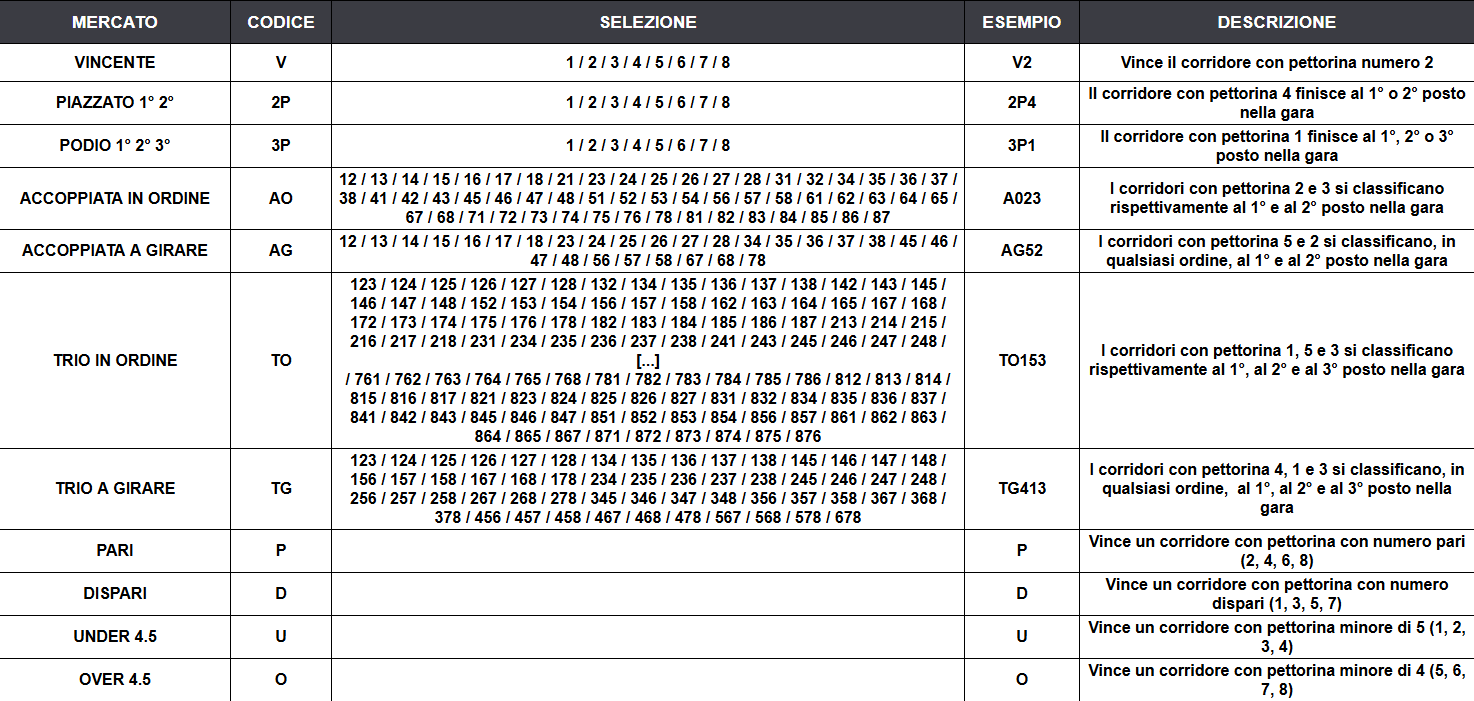
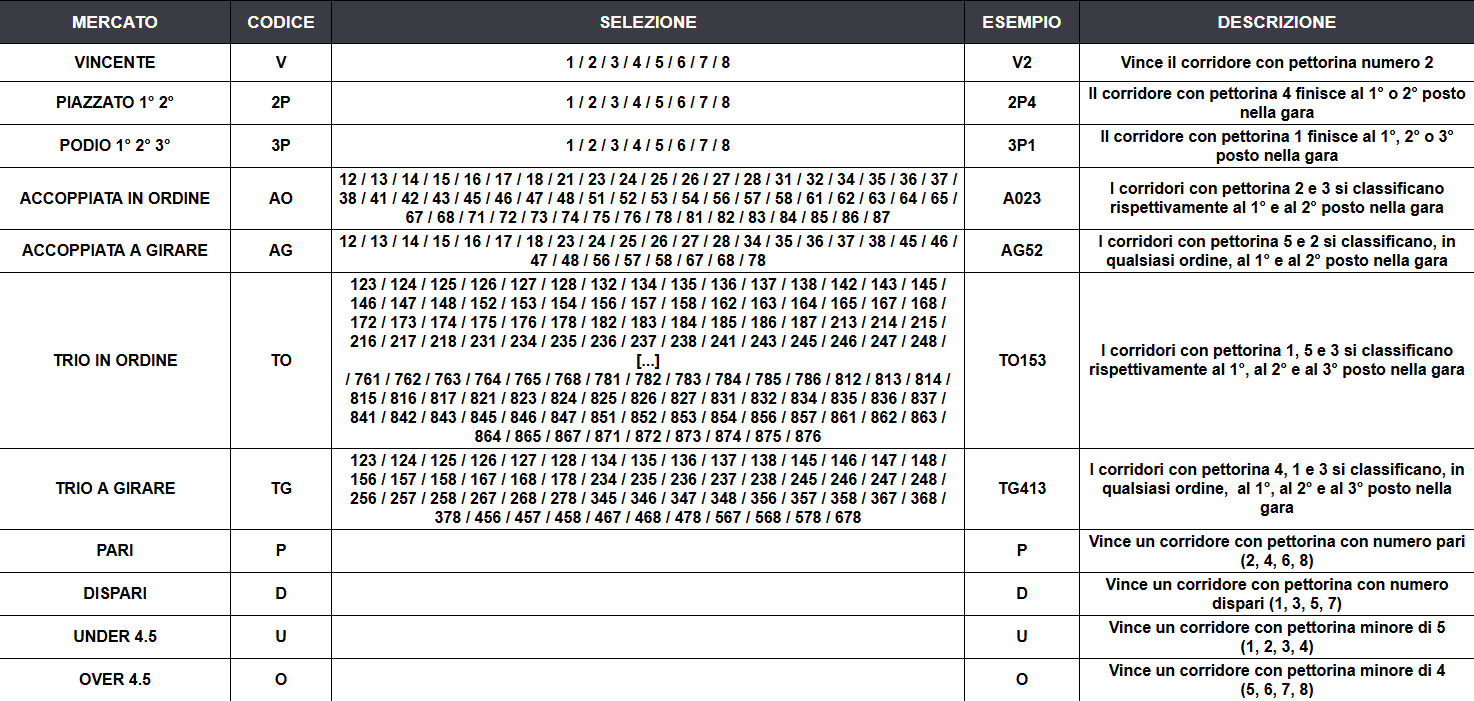
Pass the real discipline to the fastbet code list so eight-dog races show their own table

Changed region(s): [[0.7178, 0.8688, 0.9986, 1.0]]

diff --git a/src/retail-components/racing-fast-bet.tsx b/src/retail-components/racing-fast-bet.tsx
@@ -301,7 +301,9 @@ export default function RacingFastBet({
         drawerId="racing-fastbet"
       />
 
-      <DraggableCodeList discipline="racing" />
+      <DraggableCodeList
+        discipline={selectedEvent?.discipline === 'DOGS8' ? 'dogs8' : 'racing'}
+      />
     </div>
   )
 }
